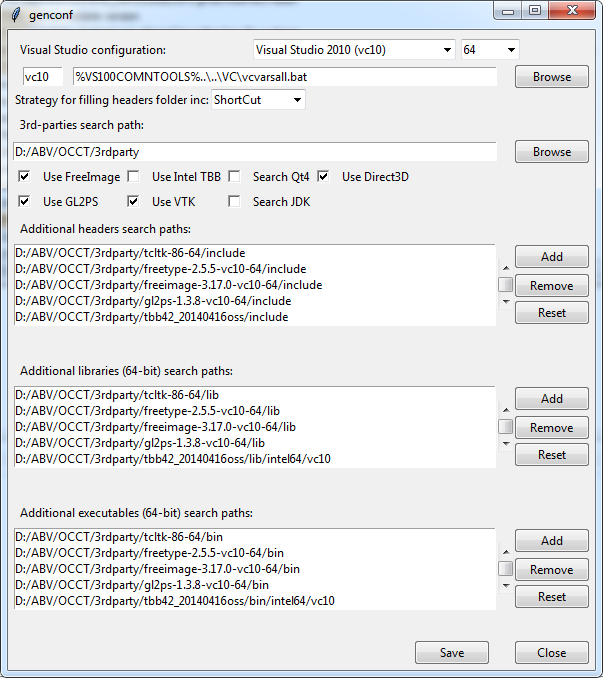
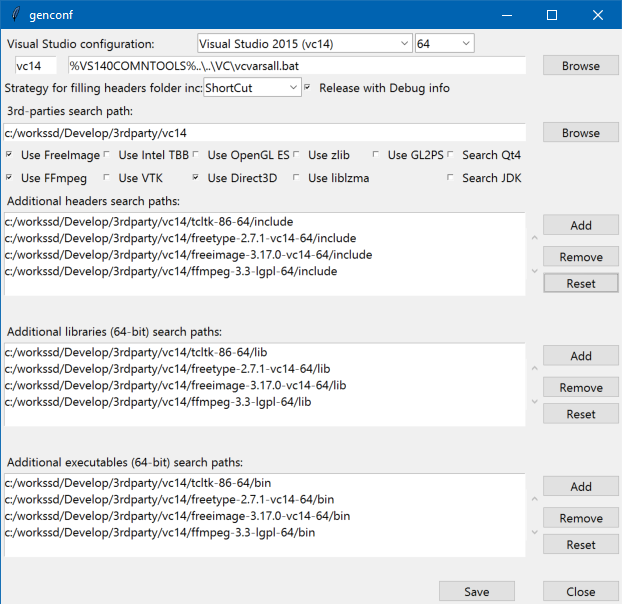
0028787: Configuration, genproj - add option HAVE_RelWithDebInfo for generating VS project files with Debug info in Release mode

Changed region(s): [[0.0, 0.0, 1.0, 1.0]]

diff --git a/dox/dev_guides/building/msvc.md b/dox/dev_guides/building/msvc.md
@@ -38,11 +38,12 @@ If you have Visual Studio projects already available (pre-installed or generated
 Alternatively, you can launch **genconf**, a GUI tool allowing to configure build options interactively.
 That tool will analyze your environment and propose you to choose available options:
 
-* Version of Visual Studio to be used (from the list of installed ones, detected by presence of environment variables like *VS100COMNTOOLS*)
+* Version of Visual Studio to be used (from the list of installed ones, detected by presence of environment variables like *VS100COMNTOOLS*).
 * Method to populate folder *inc* (short-cuts by default).
 * Location of third-party libraries (usually downloaded from OCCT web site, see above).
-* Path to common directory where third-party libraries are located (optional)
+* Path to common directory where third-party libraries are located (optional).
 * Paths to headers and binaries of the third-party libraries (found automatically basing on previous options; click button "Reset" to update).
+* Generation of PDB files within Release build ("Release with Debug info", false by default).
 
 @figure{/dev_guides/building/3rdparty/images/genconf_windows.png}
 
